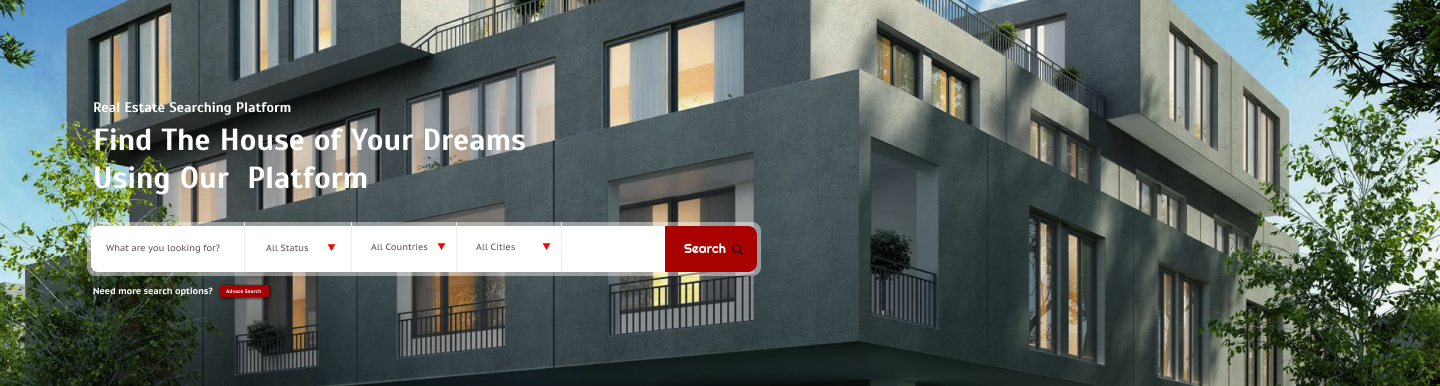
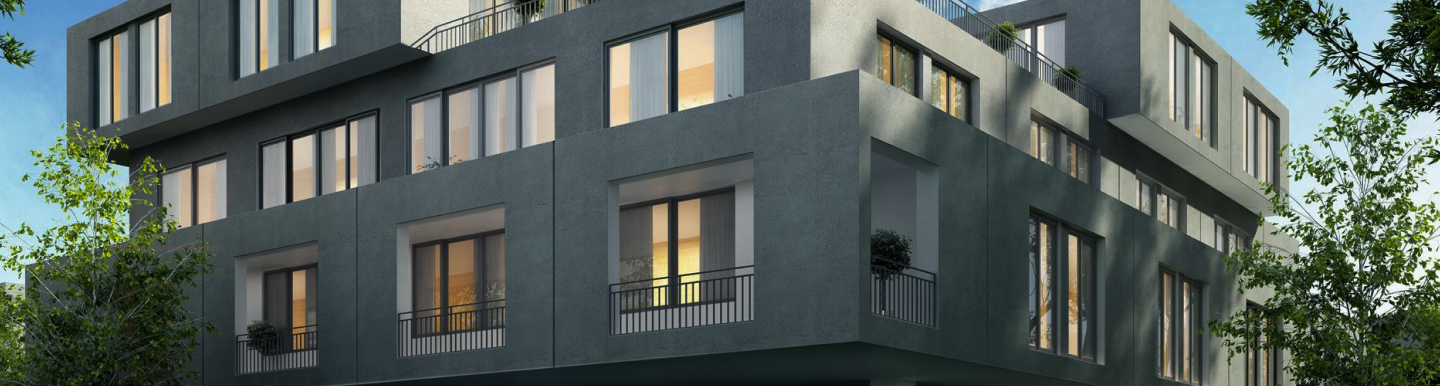
added main content big search

Changed region(s): [[0.0625, 0.5596, 0.5312, 0.7772], [0.0625, 0.2487, 0.375, 0.4041], [0.0625, 0.4352, 0.25, 0.4974]]

diff --git a/style.css b/style.css
@@ -1,4 +1,4 @@
-@import url("https://fonts.googleapis.com/css2?family=Righteous&family=Roboto:wght@400;500;700;900&display=swap");
+@import url("https://fonts.googleapis.com/css2?family=PT+Sans+Caption&family=Righteous&family=Roboto:wght@400;500;700;900&family=Scada:wght@400;700&display=swap");
 html {
   font-size: 10px;
   line-height: 10px;
@@ -26,6 +26,10 @@ a:hover {
 .wrapper {
   max-width: 1440px;
   margin: 0 auto;
+}
+
+p {
+  margin: 0;
 }
 
 .header__wrapper {
@@ -132,4 +136,92 @@ a:hover {
 }
 .header__button:hover {
   cursor: pointer;
+}
+
+.main__wrapper {
+  height: 386px;
+}
+.main__big-search {
+  background-image: url(../img/frame_5.webp);
+  background-repeat: no-repeat;
+  background-position: center;
+  background-size: cover;
+  height: 100%;
+  display: flex;
+  align-items: center;
+}
+.main__big-search-content {
+  margin-left: 90px;
+}
+.main__content-small-text {
+  font-family: "Scada";
+  font-style: normal;
+  font-weight: 700;
+  font-size: 1.4rem;
+  line-height: 1.7rem;
+  color: white;
+}
+.main__content-big-text {
+  font-family: "Scada";
+  font-style: normal;
+  font-weight: 700;
+  font-size: 3rem;
+  line-height: 3.8rem;
+  color: white;
+  margin-bottom: 32px;
+}
+.main__content-search-block {
+  display: flex;
+  justify-content: center;
+  align-items: center;
+  width: 654px;
+  height: 54px;
+  background: rgba(255, 255, 255, 0.44);
+  border-radius: 9px;
+}
+.main__content-search-menu {
+  display: flex;
+  align-items: center;
+  justify-content: space-evenly;
+  width: 554px;
+  height: 46px;
+  border-radius: 9px 0px 0px 9px;
+  background-color: white;
+}
+.main__content-link {
+  display: flex;
+  align-items: center;
+  justify-content: center;
+  gap: 15px;
+  font-family: "PT Sans Caption";
+  font-style: normal;
+  font-weight: 400;
+  font-size: 0.9rem;
+  line-height: 1.2rem;
+}
+.main__link-icon {
+  width: 9px;
+  height: 9px;
+}
+.main__border {
+  width: 0px;
+  height: 45px;
+  border: 1px solid #eeeeee;
+}
+.main__content-search-button {
+  display: flex;
+  justify-content: center;
+  align-items: center;
+  gap: 5px;
+  overflow: hidden;
+  width: 92px;
+  height: 46px;
+  background-color: #a90000;
+  border-radius: 0px 9px 9px 0px;
+  font-family: "Righteous";
+  font-style: normal;
+  font-weight: 400;
+  font-size: 1.3rem;
+  line-height: 1.6rem;
+  color: white;
 }/*# sourceMappingURL=style.css.map */

diff --git a/index.html b/index.html
@@ -58,5 +58,56 @@
       </div>
     </header>
     <!-- Header -->
+    <!-- Main content -->
+    <section class="main">
+      <div class="wrapper main__wrapper">
+        <div class="main__big-search">
+          <div class="main__big-search-content">
+            <p class="main__content-small-text">
+              Real Estate Searching Platform
+            </p>
+            <div class="main__content-big-text">
+              <p>Find The House of Your Dreams</p>
+              <p>Using Our Platform</p>
+            </div>
+            <div class="main__content-search-block">
+              <div class="main__content-search-menu">
+                <div class="main__content-link">What are you looking for?</div>
+                <div class="main__border"></div>
+                <div class="main__content-link">
+                  All Status
+                  <svg class="main__link-icon">
+                    <use xlink:href="./sprite.svg#Polygon1"></use>
+                  </svg>
+                </div>
+                <div class="main__border"></div>
+                <div class="main__content-link">
+                  All Countries
+                  <svg class="main__link-icon">
+                    <use xlink:href="./sprite.svg#Polygon1"></use>
+                  </svg>
+                </div>
+                <div class="main__border"></div>
+                <div class="main__content-link">
+                  All Cities
+                  <svg class="main__link-icon">
+                    <use xlink:href="./sprite.svg#Polygon1"></use>
+                  </svg>
+                </div>
+              </div>
+              <div class="main__content-search-button">
+                Search
+                <img
+                  class="header__search-icon"
+                  src="./img/search.webp"
+                  alt="search"
+                />
+              </div>
+            </div>
+          </div>
+        </div>
+      </div>
+    </section>
+    <!-- Main content -->
   </body>
 </html>

diff --git a/scss/_main.scss b/scss/_main.scss
@@ -1,0 +1,92 @@
+.main {
+  &__wrapper {
+    height: 386px;
+  }
+
+  &__big-search {
+    background-image: url(../img/frame_5.webp);
+    background-repeat: no-repeat;
+    background-position: center;
+    background-size: cover;
+    height: 100%;
+    display: flex;
+    align-items: center;
+  }
+
+  &__big-search-content {
+    margin-left: 90px;
+  }
+  &__content-small-text {
+    font-family: "Scada";
+    font-style: normal;
+    font-weight: 700;
+    font-size: 1.4rem;
+    line-height: 1.7rem;
+    color: white;
+  }
+  &__content-big-text {
+    font-family: "Scada";
+    font-style: normal;
+    font-weight: 700;
+    font-size: 3rem;
+    line-height: 3.8rem;
+    color: white;
+    margin-bottom: 32px;
+  }
+
+  &__content-search-block {
+    display: flex;
+    justify-content: center;
+    align-items: center;
+    width: 654px;
+    height: 54px;
+    background: rgba(255, 255, 255, 0.44);
+    border-radius: 9px;
+  }
+  &__content-search-menu {
+    display: flex;
+    align-items: center;
+    justify-content: space-evenly;
+    width: 554px;
+    height: 46px;
+    border-radius: 9px 0px 0px 9px;
+    background-color: white;
+  }
+  &__content-link {
+    display: flex;
+    align-items: center;
+    justify-content: center;
+    gap: 15px;
+    font-family: "PT Sans Caption";
+    font-style: normal;
+    font-weight: 400;
+    font-size: 0.9rem;
+    line-height: 1.2rem;
+  }
+  &__link-icon {
+    width: 9px;
+    height: 9px;
+  }
+  &__border {
+    width: 0px;
+    height: 45px;
+    border: 1px solid #eeeeee;
+  }
+  &__content-search-button {
+    display: flex;
+    justify-content: center;
+    align-items: center;
+    gap: 5px;
+    overflow: hidden;
+    width: 92px;
+    height: 46px;
+    background-color: $button_color;
+    border-radius: 0px 9px 9px 0px;
+    font-family: "Righteous";
+    font-style: normal;
+    font-weight: 400;
+    font-size: 1.3rem;
+    line-height: 1.6rem;
+    color: white;
+  }
+}

diff --git a/scss/_fonts.scss b/scss/_fonts.scss
@@ -1,1 +1,1 @@
-@import url("https://fonts.googleapis.com/css2?family=Righteous&family=Roboto:wght@400;500;700;900&display=swap");
+@import url("https://fonts.googleapis.com/css2?family=PT+Sans+Caption&family=Righteous&family=Roboto:wght@400;500;700;900&family=Scada:wght@400;700&display=swap");

diff --git a/style.scss b/style.scss
@@ -2,3 +2,4 @@
 @import "./scss/global";
 @import "./scss/header";
 @import "./scss/fonts";
+@import "./scss/main";

diff --git a/scss/_global.scss b/scss/_global.scss
@@ -26,3 +26,6 @@ a {
   max-width: 1440px;
   margin: 0 auto;
 }
+p {
+  margin: 0;
+}
